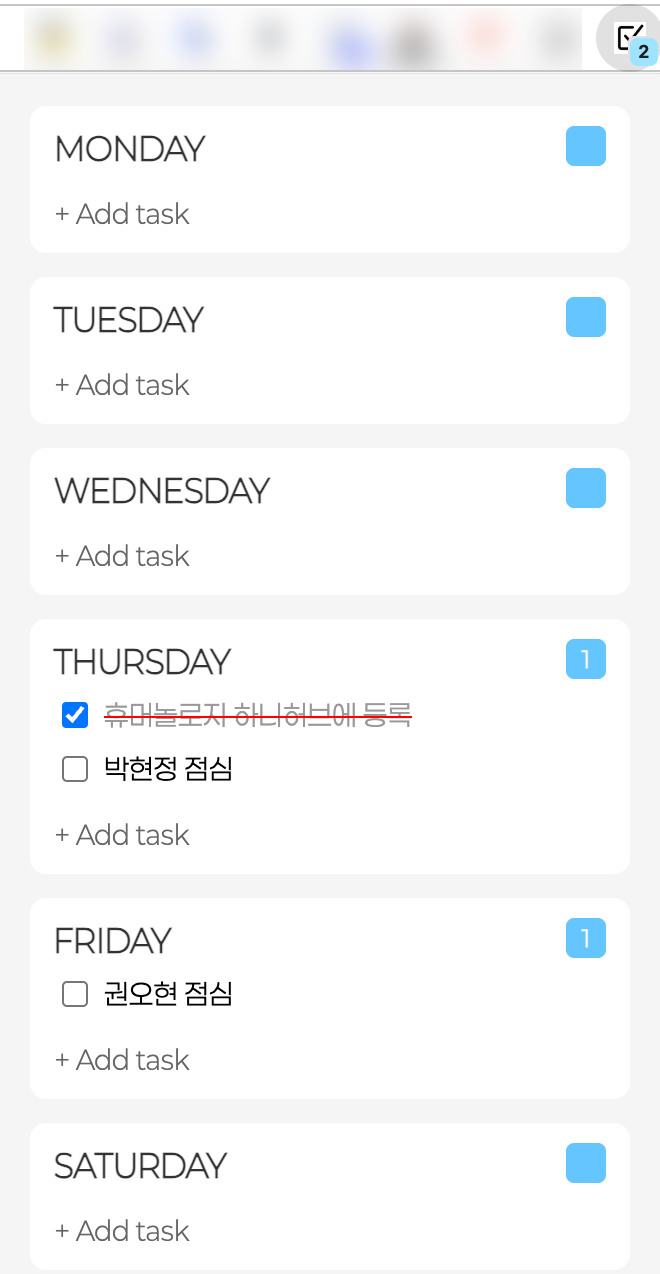
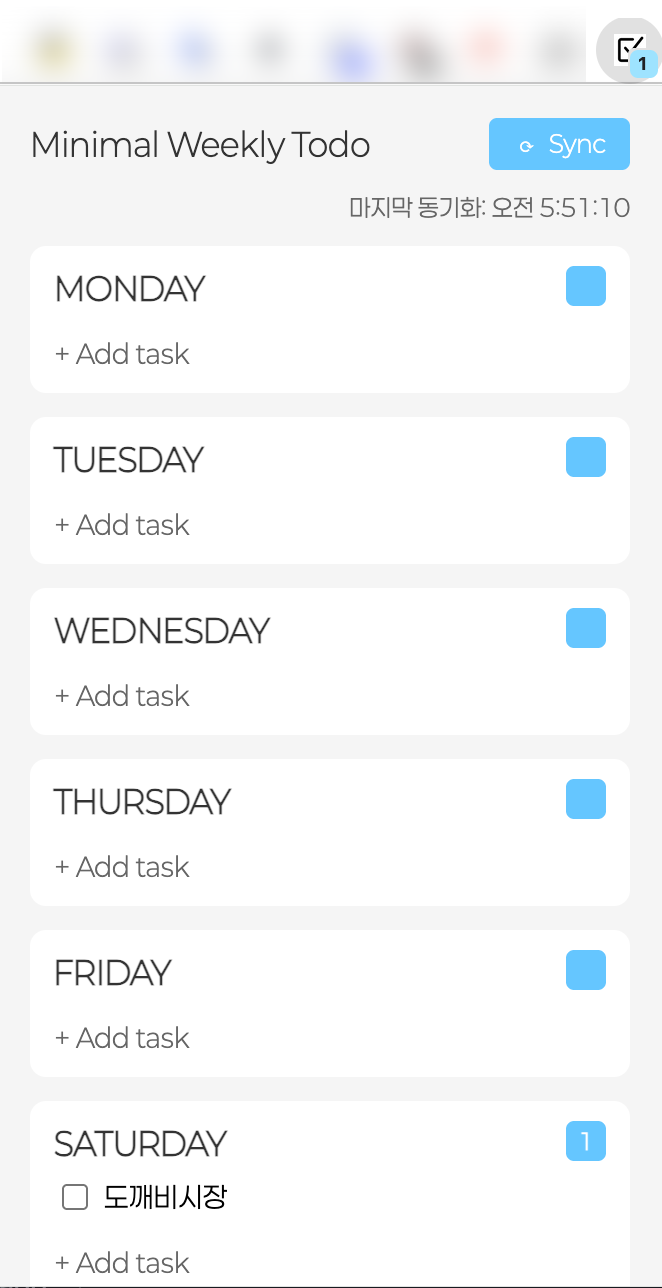
add sync

diff --git a/popup.js b/popup.js
@@ -2,11 +2,37 @@
 
 // 요일 배열
 const days = ["Monday", "Tuesday", "Wednesday", "Thursday", "Friday", "Saturday", "Sunday"];
+let isSyncing = false;
+let lastSyncTime = null;
 
-// chrome.storage에 저장된 할일 데이터를 불러옵니다.
+// chrome.storage.sync에서 할일 데이터를 불러옵니다.
 function loadAllTasks() {
   return new Promise((resolve, reject) => {
     chrome.storage.sync.get("weeklyTasks", (data) => {
+      if (chrome.runtime.lastError) {
+        console.warn('Sync storage error, falling back to local:', chrome.runtime.lastError);
+        // 동기화 스토리지 실패 시 로컬 스토리지에서 시도
+        loadFromLocal().then(resolve).catch(reject);
+      } else {
+        const weeklyTasks = data.weeklyTasks || {
+          Monday: [],
+          Tuesday: [],
+          Wednesday: [],
+          Thursday: [],
+          Friday: [],
+          Saturday: [],
+          Sunday: []
+        };
+        resolve(weeklyTasks);
+      }
+    });
+  });
+}
+
+// 로컬 스토리지에서 할일 데이터를 불러옵니다.
+function loadFromLocal() {
+  return new Promise((resolve, reject) => {
+    chrome.storage.local.get("weeklyTasks", (data) => {
       if (chrome.runtime.lastError) {
         reject(chrome.runtime.lastError);
       } else {
@@ -25,10 +51,27 @@ function loadAllTasks() {
   });
 }
 
-// 할일 데이터를 저장합니다.
+// 동기화 스토리지에 할일 데이터를 저장합니다.
 function saveAllTasks(weeklyTasks) {
   return new Promise((resolve, reject) => {
+    // 동기화 스토리지에 저장
     chrome.storage.sync.set({ weeklyTasks }, () => {
+      if (chrome.runtime.lastError) {
+        console.warn('Error saving to sync storage:', chrome.runtime.lastError);
+        // 실패시 로컬 스토리지에 백업
+        saveToLocal(weeklyTasks).then(resolve).catch(reject);
+      } else {
+        // 성공시에도 로컬 스토리지에 백업
+        saveToLocal(weeklyTasks).then(() => resolve()).catch(() => resolve());
+      }
+    });
+  });
+}
+
+// 로컬 스토리지에 할일 데이터를 저장합니다.
+function saveToLocal(weeklyTasks) {
+  return new Promise((resolve, reject) => {
+    chrome.storage.local.set({ weeklyTasks }, () => {
       if (chrome.runtime.lastError) {
         reject(chrome.runtime.lastError);
       } else {
@@ -36,6 +79,138 @@ function saveAllTasks(weeklyTasks) {
       }
     });
   });
+}
+
+// 두 할일 항목이 동일한지 확인하는 함수
+function isSameTask(task1, task2) {
+  return task1.text === task2.text;
+}
+
+// 할일 목록 병합 함수: 두 브라우저의 할일을 통합
+function mergeTasks(localTasks, syncTasks) {
+  const result = { ...localTasks };
+  
+  // 각 요일별로 처리
+  days.forEach(day => {
+    // 원본 배열 복사
+    const localDayTasks = [...(localTasks[day] || [])];
+    const syncDayTasks = [...(syncTasks[day] || [])];
+    
+    // 통합된 할일 목록
+    const mergedTasks = [...localDayTasks];
+    
+    // 동기화 스토리지의 할일을 로컬에 없는 경우에만 추가
+    syncDayTasks.forEach(syncTask => {
+      // 동일한 텍스트의 할일이 로컬에 있는지 확인
+      const existingTaskIndex = localDayTasks.findIndex(localTask => 
+        isSameTask(localTask, syncTask)
+      );
+      
+      if (existingTaskIndex === -1) {
+        // 로컬에 없는 할일은 추가
+        mergedTasks.push(syncTask);
+      } else {
+        // 이미 존재하는 경우, 완료 상태가 다르면 상태 업데이트 (일관성을 위해)
+        if (syncTask.completed && !localDayTasks[existingTaskIndex].completed) {
+          mergedTasks[existingTaskIndex].completed = true;
+        }
+      }
+    });
+    
+    // 병합된 할일 목록 업데이트
+    result[day] = mergedTasks;
+  });
+  
+  return result;
+}
+
+// 수동 동기화 실행 함수
+async function performSync() {
+  if (isSyncing) return;
+  
+  const syncButton = document.querySelector('.sync-button');
+  const syncIcon = syncButton.querySelector('.sync-icon');
+  const syncText = syncButton.querySelector('.sync-text');
+  const syncStatus = document.querySelector('.sync-status');
+  
+  // 동기화 상태 UI 업데이트
+  isSyncing = true;
+  syncIcon.classList.add('spinning');
+  syncText.textContent = '동기화 중...';
+  
+  try {
+    // 로컬 데이터 불러오기
+    const localTasks = await loadFromLocal();
+    
+    // 동기화 스토리지 데이터 불러오기
+    let syncTasks;
+    try {
+      syncTasks = await new Promise((resolve, reject) => {
+        chrome.storage.sync.get("weeklyTasks", (data) => {
+          if (chrome.runtime.lastError) {
+            reject(chrome.runtime.lastError);
+          } else {
+            resolve(data.weeklyTasks || {
+              Monday: [],
+              Tuesday: [],
+              Wednesday: [],
+              Thursday: [],
+              Friday: [],
+              Saturday: [],
+              Sunday: []
+            });
+          }
+        });
+      });
+    } catch (error) {
+      console.warn('동기화 스토리지에서 데이터를 불러올 수 없습니다:', error);
+      // 동기화 스토리지에서 불러오기 실패 시, 로컬 데이터만 사용
+      syncTasks = { ...localTasks };
+    }
+    
+    // 할일 목록 병합
+    const mergedTasks = mergeTasks(localTasks, syncTasks);
+    
+    // 병합된 데이터를 동기화 스토리지와 로컬 스토리지에 저장
+    await new Promise((resolve, reject) => {
+      chrome.storage.sync.set({ weeklyTasks: mergedTasks }, () => {
+        if (chrome.runtime.lastError) {
+          console.warn('동기화 스토리지에 저장 실패:', chrome.runtime.lastError);
+          // 오류가 발생해도 계속 진행 (로컬 저장은 시도)
+          resolve();
+        } else {
+          resolve();
+        }
+      });
+    });
+    
+    // 로컬 스토리지에 저장
+    await saveToLocal(mergedTasks);
+    
+    // UI 업데이트
+    days.forEach((day) => {
+      renderTodoList(day, mergedTasks[day]);
+    });
+    updateDayBadges();
+    
+    // 동기화 시간 저장 및 표시
+    lastSyncTime = new Date();
+    chrome.storage.local.set({ lastSyncTime: lastSyncTime.toISOString() });
+    syncStatus.textContent = `마지막 동기화: ${lastSyncTime.toLocaleTimeString()}`;
+    
+    // 성공 메시지
+    setTimeout(() => {
+      syncStatus.textContent = `동기화 완료: ${lastSyncTime.toLocaleTimeString()}`;
+    }, 1000);
+  } catch (error) {
+    console.error('동기화 오류:', error);
+    syncStatus.textContent = `동기화 실패: ${error.message}`;
+  } finally {
+    // 동기화 상태 초기화
+    isSyncing = false;
+    syncIcon.classList.remove('spinning');
+    syncText.textContent = 'Sync';
+  }
 }
 
 // 할일 텍스트를 편집 모드로 전환하는 함수
@@ -230,11 +405,40 @@ async function updateDayBadges() {
   });
 }
 
+// 동기화 버튼 및 상태 설정
+function setupSyncButton() {
+  const syncButton = document.querySelector('.sync-button');
+  const syncStatus = document.querySelector('.sync-status');
+  
+  if (syncButton) {
+    syncButton.addEventListener('click', performSync);
+  }
+  
+  // 마지막 동기화 시간 로드
+  chrome.storage.local.get(['lastSyncTime'], (result) => {
+    if (result.lastSyncTime) {
+      lastSyncTime = new Date(result.lastSyncTime);
+      if (syncStatus) {
+        syncStatus.textContent = `마지막 동기화: ${lastSyncTime.toLocaleTimeString()}`;
+      }
+    }
+  });
+}
+
 // 초기화: 링크, 폼 처리 및 렌더링 실행
 async function init() {
   setupAddTaskLinks();
   setupNewTodoForms();
+  setupSyncButton();
   await renderAllDays();
+  
+  // 동기화 리스너 설정 - 다른 기기에서 변경사항이 있을 때 자동 업데이트
+  chrome.storage.onChanged.addListener((changes, namespace) => {
+    if (namespace === 'sync' && changes.weeklyTasks) {
+      console.log('동기화 스토리지에서 변경 감지됨');
+      renderAllDays();
+    }
+  });
 }
 
 document.addEventListener("DOMContentLoaded", init);

diff --git a/style.css b/style.css
@@ -17,6 +17,60 @@ body {
   overflow-y: auto;
 }
 
+/* 동기화 헤더 */
+.sync-header {
+  display: flex;
+  justify-content: space-between;
+  align-items: center;
+  margin-bottom: 12px;
+}
+
+.sync-title {
+  font-size: 16px;
+  font-weight: 500;
+  color: #333;
+}
+
+.sync-button {
+  background-color: #66c6ff;
+  color: white;
+  border: none;
+  border-radius: 4px;
+  padding: 6px 12px;
+  font-size: 12px;
+  cursor: pointer;
+  display: flex;
+  align-items: center;
+  gap: 4px;
+  font-family: 'Paperlogy-3Light', sans-serif;
+}
+
+.sync-button:hover {
+  background-color: #4db8ff;
+}
+
+.sync-icon {
+  display: inline-block;
+  width: 14px;
+  height: 14px;
+}
+
+.sync-status {
+  font-size: 12px;
+  color: #666;
+  margin-bottom: 12px;
+  text-align: right;
+}
+
+@keyframes spin {
+  0% { transform: rotate(0deg); }
+  100% { transform: rotate(360deg); }
+}
+
+.spinning {
+  animation: spin 1s linear infinite;
+}
+
 /* 요일 카드 */
 .day {
   margin-bottom: 12px;

diff --git a/popup.html b/popup.html
@@ -2,10 +2,20 @@
 <html lang="ko">
 <head>
   <meta charset="UTF-8">
-  <title>Weekly Minimal Todo</title>
+  <title>Minimal Weekly Todo</title>
   <link rel="stylesheet" href="style.css">
 </head>
 <body>
+  <!-- 동기화 헤더 -->
+  <div class="sync-header">
+    <div class="sync-title">Minimal Weekly Todo</div>
+    <button class="sync-button">
+      <span class="sync-icon">⟳</span>
+      <span class="sync-text">Sync</span>
+    </button>
+  </div>
+  <div class="sync-status"></div>
+
   <!-- 월요일 -->
   <div class="day">
     <div class="day-header">
